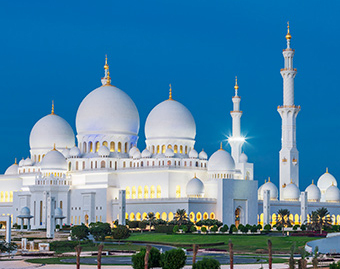
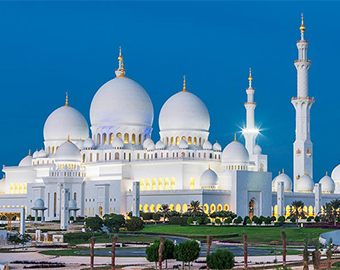
add carousel

diff --git a/css/styles.css b/css/styles.css
@@ -41,7 +41,7 @@ ol,ul{
 
 /*--------------------BODY--------------------*/
 body{
-    background-color: #fff;
+    background-color: var(--color_gris);
     margin: auto;
     font-family: 'Montserrat', sans-serif;
 }
@@ -59,7 +59,7 @@ span{
 
 .header {
     height: var(--altura_header);
-    background-color: var(--color_blanco);
+    background-color: var(--color_gris);
     border-bottom: 1px solid #B153C6;
     box-shadow: rgba(50, 50, 93, 0.25) 0px 13px 27px -5px, rgba(0, 0, 0, 0.3) 0px 8px 16px -8px;
 }
@@ -92,7 +92,7 @@ span{
 
 .ul_links {
     width: 100%;
-    background-color: var(--color_blanco);
+    background-color: var(--color_gris);
     position: absolute;
     top: var(--altura_header);
     left: 0;
@@ -128,7 +128,7 @@ span{
     background-color: var(--color_primario);
     padding: 1rem;
     border-radius: 10px;
-    box-shadow: rgba(14, 30, 37, 0.12) 0px 2px 4px 0px, rgba(14, 30, 37, 0.32) 0px 2px 16px 0px;
+    box-shadow: rgba(50, 50, 93, 0.25) 0px 13px 27px -5px, rgba(0, 0, 0, 0.3) 0px 8px 16px -8px;
 }
 
 .ul_links li:last-child:hover{
@@ -193,7 +193,7 @@ span{
 #dubai iframe{
     margin: 1rem 0;
     border-radius: 10px;
-    box-shadow: rgba(0, 0, 0, 0.24) 0px 3px 8px;
+    box-shadow: rgba(50, 50, 93, 0.25) 0px 13px 27px -5px, rgba(0, 0, 0, 0.3) 0px 8px 16px -8px;
 }
 
 /*---------------historia---------------*/
@@ -208,9 +208,9 @@ span{
     width: 70%;
     align-self: flex-start;
     margin: 2rem 0;
-    padding: 1rem;
+    padding: 1rem 0 1rem 2rem;
     background: rgb(255,253,253);
-    background: linear-gradient(270deg, rgba(255,253,253,1) 0%, rgba(68,45,223,1) 100%);
+    background: linear-gradient(270deg, rgba(226,226,226,1) 10%, rgba(68,45,223,1) 70%);
     color: var(--color_blanco);
     font-size: 1.5em;
 }
@@ -292,9 +292,84 @@ span{
 #imagenes h3{
     display: none;
 }
+.container {
+	padding: 2rem 0;
+}
+
+.slider-wrapper {
+	position: relative;
+    max-width: 340px;
+	margin: auto;
+    box-shadow: rgba(50, 50, 93, 0.25) 0px 13px 27px -5px, rgba(0, 0, 0, 0.3) 0px 8px 16px -8px;
+    border-radius: 10px;
+}
+
+.slider {
+	display: flex;
+	overflow-x: auto;
+	scroll-snap-type: x mandatory;
+	scroll-behavior: smooth;
+	box-shadow: 0 1.5rem 3rem -0.75rem hsla(0, 0%, 0%, 0.25);
+	border-radius: 10px;
+	-ms-overflow-style: none; 
+	scrollbar-width: none; 
+}
+
+.slider::-webkit-scrollbar {
+	display: none;
+}
+
+.slider img {
+	scroll-snap-align: start;
+	object-fit: cover;
+    border-radius: 10px;
+}
+
+.slider picture{
+    width: 340px;
+    height: 270px;
+    border-radius: 10px;
+}
+
+.slider-nav {
+	display: flex;
+	column-gap: 1rem;
+	position: absolute;
+	bottom: 1.25rem;
+	left: 50%;
+	transform: translateX(-50%);
+	z-index: 1;
+}
+
+.slider-nav a {
+	width: 0.5rem;
+	height: 0.5rem;
+	border-radius: 50%;
+	background-color: #fff;
+	opacity: 0.75;
+	transition: opacity ease 250ms;
+}
+
+.slider-nav a:hover {
+	opacity: 1;
+}
 
 /*---------------tablet---------------*/
-@media (min-width:768px){
+@media (min-width:480px){
+    /*---------------carrousel---------------*/
+    .slider-wrapper {
+        max-width: 480px;
+        height: 270px;
+    }
+    .slider picture{
+        width: 480px;
+        height: 270px;
+    }
+
+}
+/*---------------desktop---------------*/
+@media (min-width:800px){
+    /*---------------menu---------------*/
     .labe_hamburguesa {
         display: none;
     }
@@ -315,5 +390,19 @@ span{
     }
     .link:hover{
         color: #5f1192;
+    }
+    .ul_links li:last-child{
+        background-color: var(--color_primario);
+        padding: 1rem;
+        border-radius: 10px;
+    }
+    /*---------------carrousel---------------*/
+    .slider-wrapper {
+        max-width: 889px;
+        height: 500px;
+    }
+    .slider picture{
+        width: 889px;
+        height: 500px;
     }
 }

diff --git a/index.html b/index.html
@@ -118,9 +118,51 @@
             <section id="imagenes">
                 
                 <h3>Imagenes</h3>
-                
-               
+                <div class="container">
+                    <div class="slider-wrapper">
+                        <div class="slider">
+                            <picture>
+                                <source srcset="img/burjalarab-desktop.jpg" media="(min-width: 800px)" type="image/jpeg"/>
+                                <source srcset="img/burjalarab-tablet.jpg" media="(min-width: 480px)" type="image/jpeg"/>
+                                <source srcset="img/burjalarab-mobile.jpg" type="image/jpeg"/>
+                                <img id="slide-1" src="img/burjalarab-mobile.jpg" alt="burjalarab" />
+                            </picture>
+                            <picture>
+                                <source srcset="img/BurjKhalifa-desktop.jpg" media="(min-width: 800px)" type="image/jpeg"/>
+                                <source srcset="img/BurjKhalifa-tablet.jpg" media="(min-width: 480px)" type="image/jpeg"/>
+                                <source srcset="img/BurjKhalifa-mobile.jpg" type="image/jpeg"/>
+                                <img id="slide-2" src="img/BurjKhalifa-mobile.jpg" alt="BurjKhalifa" />
+                            </picture>
+                            <picture>
+                                <source srcset="img/Ciudad-desktop.jpg" media="(min-width: 800px)" type="image/jpeg"/>
+                                <source srcset="img/Ciudad-tablet.jpg" media="(min-width: 480px)" type="image/jpeg"/>
+                                <source srcset="img/Ciudad-mobile.jpg" type="image/jpeg"/>
+                                <img id="slide-3" src="img/Ciudad-mobile.jpg" alt="ciudad" />
+                            </picture>
+                            <picture>
+                                <source srcset="img/desierto-desktop.jpg" media="(min-width: 800px)" type="image/jpeg"/>
+                                <source srcset="img/desierto-tablet.jpg" media="(min-width: 480px)" type="image/jpeg"/>
+                                <source srcset="img/desierto-mobile.jpg" type="image/jpeg"/>
+                                <img id="slide-4" src="img/desierto-mobile.jpg" alt="desierto" />
+                            </picture>
+                            <picture>
+                                <source srcset="img/mezquita-desktop.jpg" media="(min-width: 800px)" type="image/jpeg"/>
+                                <source srcset="img/mezquita-tablet.jpg" media="(min-width: 480px)" type="image/jpeg"/>
+                                <source srcset="img/mezquita-mobile.jpg" type="image/jpeg"/>
+                                <img id="slide-5" src="img/mezquita-mobile.jpg" alt="mezquita" />
+                            </picture>
             
+            
+                        </div>
+                        <div class="slider-nav">
+                            <a href="#slide-1"></a>
+                            <a href="#slide-2"></a>
+                            <a href="#slide-3"></a>
+                            <a href="#slide-4"></a>
+                            <a href="#slide-5"></a>
+                        </div>
+                    </div>
+                </div>
             </section>
 
             <!--Cultura-->
